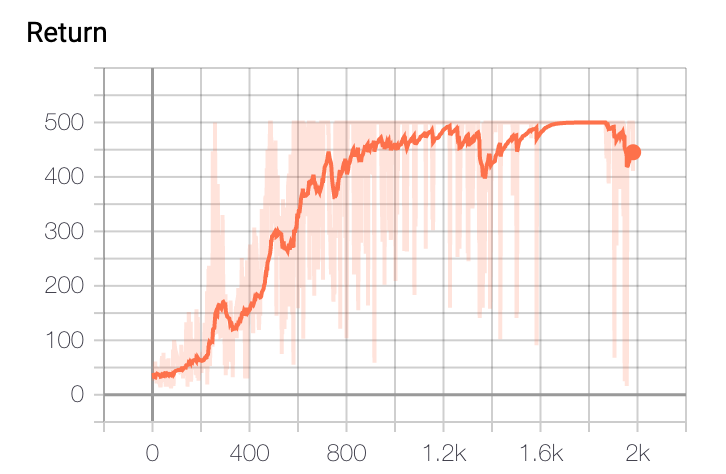
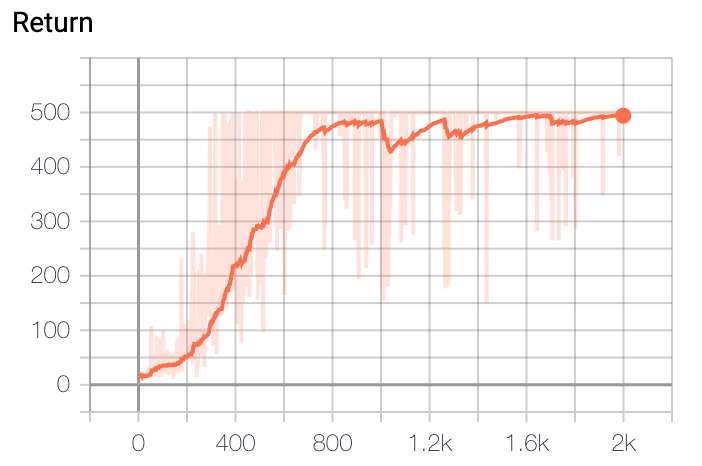
normalizing rewards

diff --git a/reinforce/reinforce.py b/reinforce/reinforce.py
@@ -50,6 +50,8 @@ def train():
                 avg_returns += np.sum(rewards)
                 for i in reversed(range(len(rewards))):
                     rewards[i] = rewards[i] + gamma*(rewards[i+1] if i<len(rewards)-1 else 0)
+                rewards = torch.Tensor(rewards)
+                rewards = (rewards - rewards.mean())/rewards.std()
                 loss = -torch.stack(log_probs).dot(torch.Tensor(rewards))
                 break
         if episode%print_freq==0 and episode>0:
